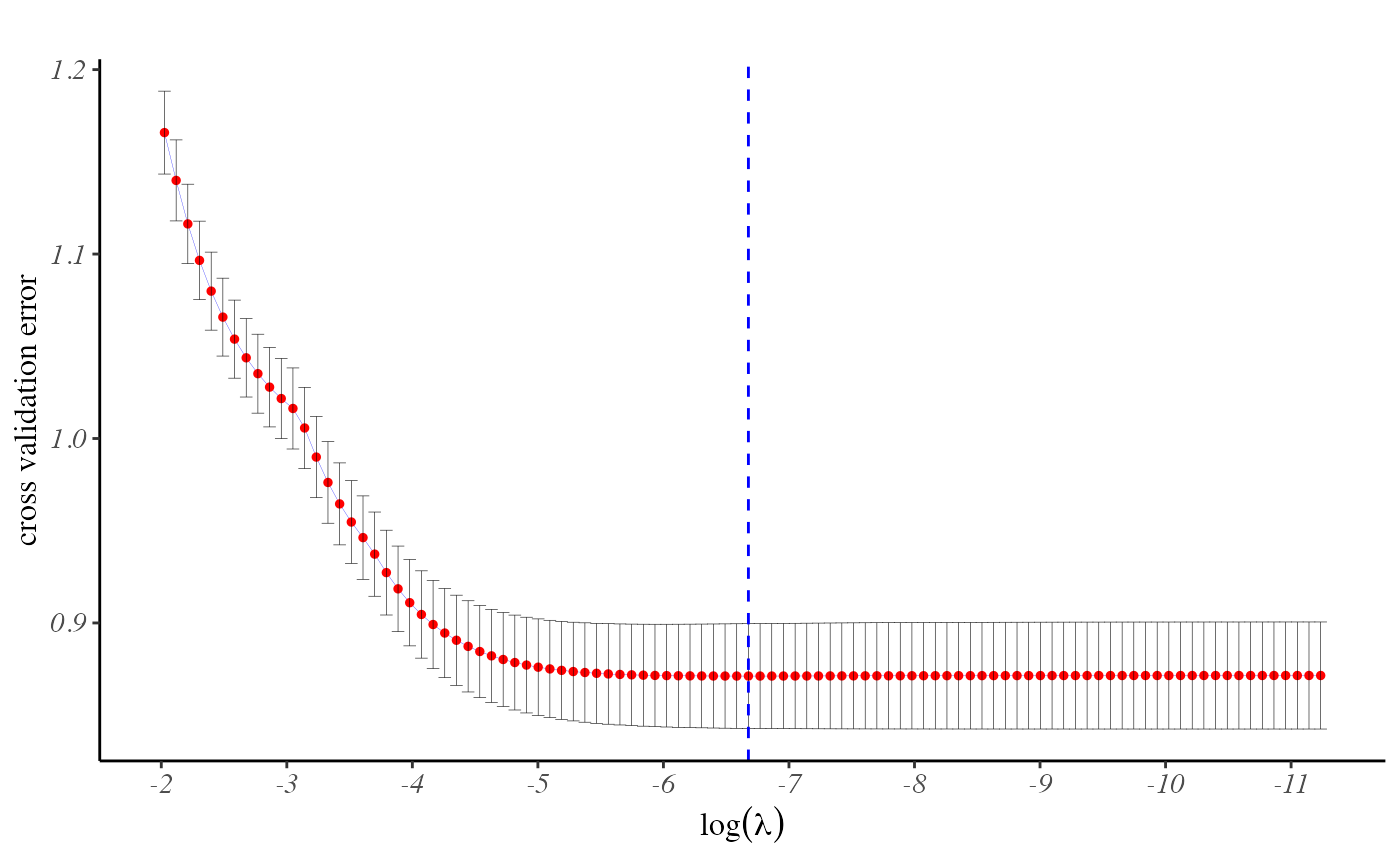
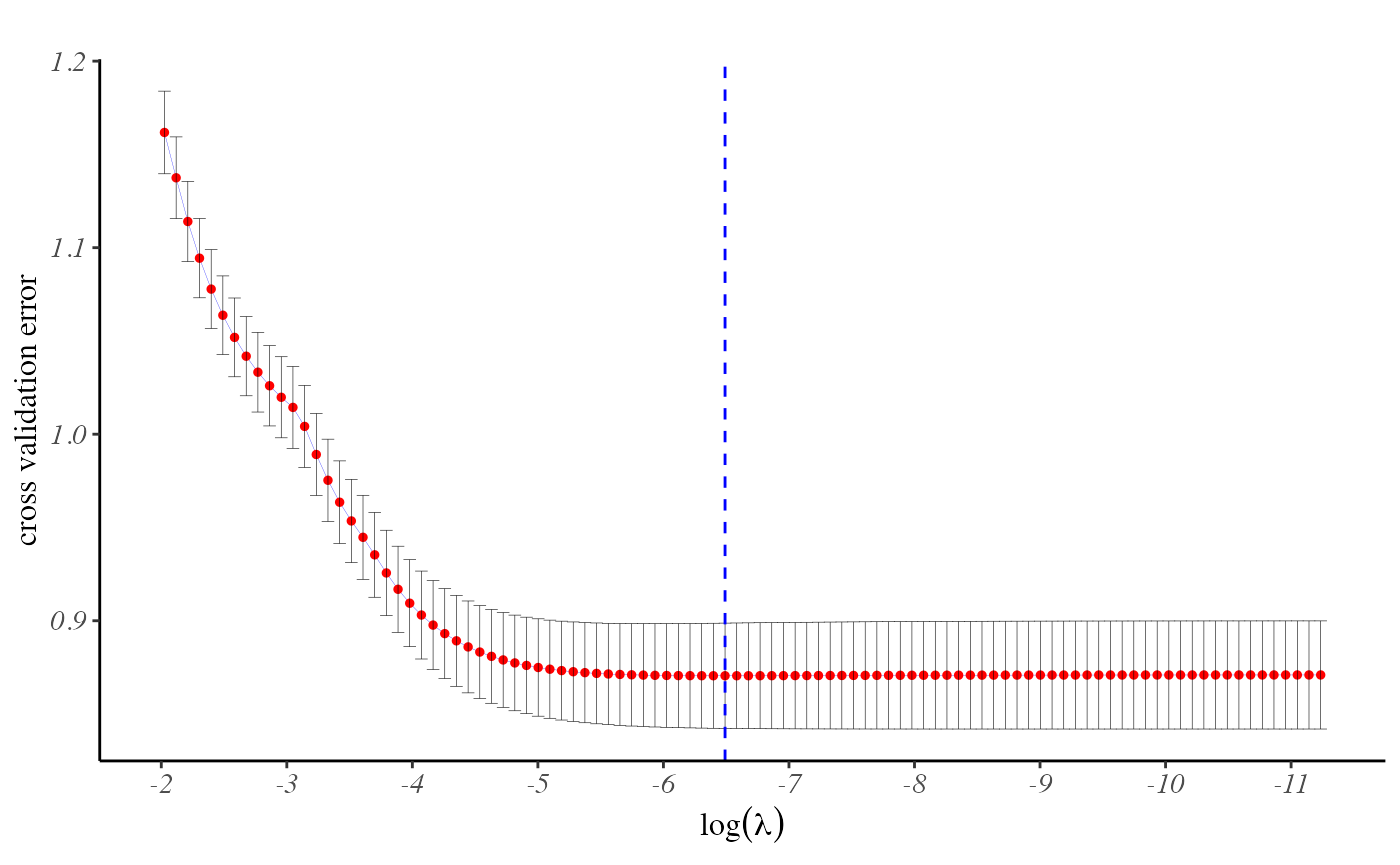
update vignettes

diff --git a/docs/articles/Models.html b/docs/articles/Models.html
@@ -104,14 +104,109 @@ corresponding <span class="math inline">\(1 \times P\)</span> vector of
 risk factors. We assume that given the linear predictor <span class="math inline">\(\eta_{ij} := \gamma_i +
 \boldsymbol{X}_{ij}\boldsymbol{\beta}\)</span>, the outcome <span class="math inline">\(Y_{ij}\)</span> follows a distribution in the
 exponential family. Incorporate with penalty terms, our problem of
-interest is estimating <span class="math inline">\(boldsymbol{\theta} =
+interest is estimating <span class="math inline">\(\boldsymbol{\theta} =
 (\boldsymbol{\gamma}^T, \boldsymbol{\beta}^T)^T\)</span> by
 minimizing:</p>
 <p><span class="math display">\[Q_{\lambda}(\boldsymbol{\theta}) =
 -\frac{1}{n}\sum\limits_{i = 1}^m \sum\limits_{j = 1}^{n_i}
 \{Y_{ij}(\gamma_i +  \boldsymbol{X}_{ij}\boldsymbol{\beta}) - b(\gamma_i
 +  \boldsymbol{X}_{ij}\boldsymbol{\beta})\} + \sum_{p = 1}^P \lambda_{p}
-|\beta_p|\]</span></p>
+|\beta_p|,\]</span> where <span class="math inline">\(\lambda_{p}\)</span> <span class="math inline">\((p = 1,2,...,P)\)</span> is the regularization
+parameter for <span class="math inline">\(\beta_p\)</span>.</p>
+<div class="section level3">
+<h3 id="two-layer-iterative-update-procedure">Two-layer iterative update procedure<a class="anchor" aria-label="anchor" href="#two-layer-iterative-update-procedure"></a>
+</h3>
+<div class="section level4">
+<h4 id="outer-layer-update-the-provider-effect-boldsymbolgamma">outer layer: update the provider effect <span class="math inline">\(\boldsymbol{\gamma}\)</span><a class="anchor" aria-label="anchor" href="#outer-layer-update-the-provider-effect-boldsymbolgamma"></a>
+</h4>
+<p>Given the previous iteration’s estimate of <span class="math inline">\(\boldsymbol{\beta}\)</span> (denoted as <span class="math inline">\(\tilde{\boldsymbol{\beta}}\)</span>), consider
+<span class="math inline">\(Q_{\lambda,
+\boldsymbol{\gamma}}(\boldsymbol{\gamma}) \propto
+Q_{\lambda}((\boldsymbol{\gamma}^T,
+\tilde{\boldsymbol{\beta}}^T)^T)\)</span> that is defined as <span class="math display">\[ Q_{\lambda,
+\boldsymbol{\gamma}}(\boldsymbol{\gamma}) = - \frac{1}{n} \sum\limits_{i
+= 1}^m \sum\limits_{j = 1}^{n_i} \{Y_{ij}(\gamma_i + \boldsymbol{X}_{ij}
+\tilde{\boldsymbol{\beta}}) - b(\gamma_i + \boldsymbol{X}_{ij}
+\tilde{\boldsymbol{\beta}})\}.\]</span></p>
+<p>Since the score function of <span class="math inline">\(Q_{\lambda,
+\boldsymbol{\gamma}}(\boldsymbol{\gamma})\)</span> is separable for
+<span class="math inline">\(\boldsymbol{\gamma}\)</span> and the fisher
+information matrix is diagonal, <span class="math inline">\(\gamma_i\)</span> can be updated separately using
+only a subset of the entire data by a one-step Newton procedure:</p>
+<p><span class="math display">\[\hat{\gamma}_i = \tilde{\gamma_i} +
+I_{\lambda}^{-1}(\tilde{\gamma}_i)
+U_{\lambda}(\tilde{\gamma}_i).\]</span></p>
+</div>
+<div class="section level4">
+<h4 id="inner-layer-update-the-covariate-coefficient-boldsymbolbeta">inner layer: update the covariate coefficient <span class="math inline">\(\boldsymbol{\beta}\)</span><a class="anchor" aria-label="anchor" href="#inner-layer-update-the-covariate-coefficient-boldsymbolbeta"></a>
+</h4>
+<p>Based on the updated value of <span class="math inline">\(\boldsymbol{\gamma}\)</span> (i.e. the <span class="math inline">\(\hat{\boldsymbol{\gamma}}\)</span> that was
+updated previously), consider <span class="math display">\[Q_{\lambda,
+\boldsymbol{\beta}}(\boldsymbol{\beta}) =
+Q_{\lambda}((\hat{\boldsymbol{\gamma}}^T, \boldsymbol{\beta}^T)^T) =
+\frac{1}{n}\mathcal{L}_{\beta}(\boldsymbol{\beta}) + \sum_{p = 1}^P
+\lambda_{p} |\beta_p|,\]</span> where <span class="math inline">\(\mathcal{L}_{\beta}(\boldsymbol{\beta}) = -
+\sum\limits_{i = 1}^m \sum\limits_{j = 1}^{n_i} \{Y_{ij}(\hat{\gamma}_i
++ \boldsymbol{X}_{ij} \boldsymbol{\beta}) - b(\hat{\gamma}_i +
+\boldsymbol{X}_{ij} \boldsymbol{\beta})\}\)</span>.</p>
+<p>The coordinate-wise updating function of <span class="math inline">\(\boldsymbol{\beta}\)</span> utilizing the
+sub-differential calculus is given by: <span class="math display">\[\hat{\beta}_p = \frac{S\{\sum\limits_{i = 1}^m
+\sum\limits_{j = 1}^{n_i} \tilde{w}_{ij} {X_{ijp}} (Z(\tilde{\eta}_{ij})
+- \hat{\gamma}_i - \boldsymbol{X}_{ij} \hat{\boldsymbol{\beta}}_{(-p)}),
+n\lambda_p\}}{\sum\limits_{i = 1}^m \sum\limits_{j = 1}^{n_i}
+\tilde{w}_{ij} {X_{ijp}}^2},\]</span> where <span class="math display">\[S(Z, \lambda) = \begin{cases} Z - \lambda,\ \
+\text{if} \ \ \ Z &gt; \lambda \\ \ \ \ 0, \ \ \ \ \ \text{if}
+\  -\lambda \leq Z \leq \lambda \\ Z + \lambda, \ \ \text{if} \ \ \ Z
+&lt; -\lambda \end{cases}\]</span>, <span class="math display">\[Z(\tilde{\eta}_{ij}) = \hat{\gamma}_i +
+\boldsymbol{X}_{ij} \tilde{\boldsymbol{\beta}}
+-  \{\mathcal{L}_{\eta}''(\tilde{\boldsymbol{\eta}})
+^{-1}
+\mathcal{L}_{\eta}'(\tilde{\boldsymbol{\eta}})\}_{ij},\]</span> and
+<span class="math display">\[\tilde{\omega}_{ij} =
+\mathcal{L}_{\eta}''(\tilde{\boldsymbol{\eta}})_{ij}.\]</span></p>
+</div>
+</div>
+<div class="section level3">
+<h3 id="extensions-covariates-with-group-information">Extensions: Covariates with Group Information<a class="anchor" aria-label="anchor" href="#extensions-covariates-with-group-information"></a>
+</h3>
+<p>Let <span class="math inline">\(\boldsymbol{X}_{ij}\)</span> be a
+<span class="math inline">\(1 \times \sum_{k = 1}^K p_k\)</span> vector
+of risk factors that are divided into <span class="math inline">\(K\)</span> non-overlapping groups (<span class="math inline">\(p_k\)</span> denotes the length of group <span class="math inline">\(k\)</span>). The coefficients of risk factors are
+denoted by <span class="math inline">\(\boldsymbol{\beta}\)</span> =
+<span class="math inline">\((\boldsymbol{\beta}_1^T\)</span>, …, <span class="math inline">\(\boldsymbol{\beta}_K^T)^T\)</span>. Given the
+observed data <span class="math inline">\(\{(Y_{ij},
+\boldsymbol{X}_{ij})\}\)</span>, our problem of interest becomes
+estimating <span class="math inline">\(\boldsymbol{\theta} =
+(\boldsymbol{\gamma}^T, \boldsymbol{\beta}^T)^T\)</span> by minimizing
+<span class="math display">\[ Q_{\lambda}(\boldsymbol{\theta}) =
+\frac{1}{n} \mathcal{L}(\boldsymbol{\theta}) + \sum_{k = 1}^K \lambda_k
+||\boldsymbol{\beta}_k||_2,\]</span> where <span class="math inline">\(\mathcal{L}(\boldsymbol{\theta}) = -
+\sum\limits_{i = 1}^m \sum\limits_{j = 1}^{n_i} \{Y_{ij}(\gamma_i +
+\sum_{k = 1}^K \boldsymbol{X}_{ijk}\boldsymbol{\beta}_k) - b(\gamma_i +
+\sum_{k = 1}^K \boldsymbol{X}_{ijk}\boldsymbol{\beta}_k)\}\)</span> is
+the loss function, and <span class="math inline">\(||\boldsymbol{\beta}_k||_2\)</span> is the <span class="math inline">\(L_2\)</span> norm of <span class="math inline">\(\boldsymbol{\beta}_k\)</span>. <span class="math inline">\(\lambda_k\)</span> is the regularization parameter
+on group <span class="math inline">\(k\)</span> with default <span class="math inline">\(\lambda_k = \lambda \sqrt{p_k}\)</span>.</p>
+<p>In the outer layer of each iteration, the center effects <span class="math inline">\(\boldsymbol{\gamma}\)</span>’s are updated the
+same way as we discussed previously.</p>
+<p>In the inner layer, we use the Majorize-Minimization (MM) algorithm
+to improve the efficiency of our algorithm for binary outcomes. Based on
+the current value of <span class="math inline">\(\hat{\boldsymbol{\gamma}}\)</span>, the
+subdifferential-based group-wise updating function of the objective
+function is given by <span class="math display">\[\boldsymbol{\beta}_k =
+\begin{cases} (||\tilde{\boldsymbol{z}}_k|| - \frac{\lambda_k}{v})
+\frac{\tilde{\boldsymbol{z}}_k}{||\tilde{\boldsymbol{z}}_k||},   &amp;
+\text{if} \ \ v\cdot||\tilde{\boldsymbol{z}}_k|| &gt; \lambda_k \\
+    0,  &amp; \text{if} \ \ v\cdot||\tilde{\boldsymbol{z}}_k|| \leq
+\lambda_k  \end{cases},\]</span> where <span class="math inline">\(\tilde{\boldsymbol{z}}_k = \frac{1}{n}
+{\boldsymbol{X}_k}^T (Z(\tilde{\boldsymbol{\eta}}) -
+\hat{\boldsymbol{\gamma}} - \boldsymbol{X}
+\tilde{\boldsymbol{\beta}}_{(-k)})\)</span> and <span class="math inline">\(v = 0.25\)</span>. <span class="math inline">\(\tilde{\boldsymbol{\beta}}_{(-k)}\)</span> is the
+most recently updated value of <span class="math inline">\(\boldsymbol{\beta}\)</span> but set <span class="math inline">\(\tilde{\boldsymbol{\beta}}_k\)</span> to <span class="math inline">\(\boldsymbol{0}\)</span>, <span class="math inline">\(Z(\tilde{\boldsymbol{\eta}}) =
+\boldsymbol{Y}\)</span> for continuous outcome and <span class="math inline">\(Z(\tilde{\boldsymbol{\eta}}) =
+\hat{\boldsymbol{\gamma}} + \boldsymbol{X} \tilde{\boldsymbol{\beta}} +
+\frac{1}{v}(\boldsymbol{Y} - \tilde{\boldsymbol{p}})\)</span> for binary
+outcome.</p>
+</div>
 </div>
 <div class="section level2">
 <h2 id="discrete-survival-logistic-model">Discrete Survival Logistic Model<a class="anchor" aria-label="anchor" href="#discrete-survival-logistic-model"></a>
@@ -160,6 +255,109 @@ as:</p>
 \boldsymbol{Z}_{ij} \boldsymbol{\beta}) -log(1 + e^{\alpha_k + \gamma_i
 + \boldsymbol{Z}_{ij} \boldsymbol{\beta}}) \} + \sum_{p = 1}^P
 \lambda_{p} |\beta_p|\]</span></p>
+<div class="section level3">
+<h3 id="three-layer-iterative-update-procedure">Three-layer iterative update procedure<a class="anchor" aria-label="anchor" href="#three-layer-iterative-update-procedure"></a>
+</h3>
+<div class="section level4">
+<h4 id="outer-layer-update-the-log-transformed-baseline-hazard-boldsymbolalpha">outer layer: update the log-transformed baseline hazard <span class="math inline">\(\boldsymbol{\alpha}\)</span><a class="anchor" aria-label="anchor" href="#outer-layer-update-the-log-transformed-baseline-hazard-boldsymbolalpha"></a>
+</h4>
+<p>Given the previous iteration’s estimate of center effect <span class="math inline">\(\tilde{\boldsymbol{\gamma}}\)</span> and
+coefficient of risk factors <span class="math inline">\(\tilde{\boldsymbol{\beta}}\)</span>, we consider
+<span class="math inline">\(Q_{\lambda,
+\boldsymbol{\alpha}}(\boldsymbol{\alpha}) = - \frac{1}{n} \sum\limits_{i
+= 1}^m \sum\limits_{j=1}^{n_i} \sum\limits_{k=1}^{k_{ij}}
+\{\delta_{ij}\left(t_{k}\right) \cdot (\alpha_k + \tilde{\gamma}_{i} +
+\boldsymbol{Z}_{ij} \tilde{\boldsymbol{\beta}}) -log(1 + e^{\alpha_k +
+\tilde{\gamma}_{i} + \boldsymbol{Z}_{ij} \tilde{\boldsymbol{\beta}}})
+\}\)</span>. The Newton method allows us to update <span class="math inline">\(\boldsymbol{\gamma}\)</span> separately by: <span class="math display">\[\hat{\alpha}_k = \tilde{\alpha}_k +
+I_{\lambda}^{-1}(\tilde{\alpha}_k)
+U_{\lambda}(\tilde{\alpha}_k),\]</span> where <span class="math inline">\(\tilde{\alpha}_k\)</span> is the current value of
+<span class="math inline">\(\alpha_k\)</span>, and <span class="math display">\[U_{\lambda}(\tilde{\alpha}_k) = - \frac{1}{n}
+\sum_{i = 1}^m \{\sum_{j = 1}^{n_i} \delta_{ij} \left(t_{k}\right) -
+\sum_{j|T_{ij} \geq t_k} \frac{e^{\tilde{\alpha}_k + \tilde{\gamma}_i
++  \boldsymbol{Z}_{ij} \tilde{\boldsymbol{\beta}}}}{1 +
+e^{\tilde{\alpha}_k + \tilde{\gamma}_i +  \boldsymbol{Z}_{ij}
+\tilde{\boldsymbol{\beta}}}}\} \\
+     I_{\lambda}(\tilde{\alpha}_k) = - \frac{1}{n} \sum_{i = 1}^m
+\sum_{j|T_{ij} \geq t_k} \frac{e^{\tilde{\alpha}_k + \tilde{\gamma}_i
++  \boldsymbol{Z}_{ij} \tilde{\boldsymbol{\beta}}}}{(1 +
+e^{\tilde{\alpha}_k + \tilde{\gamma}_i +  \boldsymbol{Z}_{ij}
+\tilde{\boldsymbol{\beta}}})^2}.\]</span></p>
+</div>
+<div class="section level4">
+<h4 id="middle-layer-update-the-provider-effect-boldsymbolgamma">middle layer: update the provider effect <span class="math inline">\(\boldsymbol{\gamma}\)</span><a class="anchor" aria-label="anchor" href="#middle-layer-update-the-provider-effect-boldsymbolgamma"></a>
+</h4>
+<p>Given the <span class="math inline">\(\hat{\boldsymbol{\alpha}}\)</span> updated above
+and the most recently updated <span class="math inline">\(\tilde{\boldsymbol{\beta}}\)</span>, we consider
+<span class="math inline">\(Q_{\lambda,
+\boldsymbol{\gamma}}(\boldsymbol{\gamma}) = - \frac{1}{n} \sum\limits_{i
+= 1}^m \sum\limits_{j=1}^{n_i} \sum\limits_{k=1}^{k_{ij}}
+\{\delta_{ij}\left(t_{k}\right) \cdot (\hat{\alpha}_k + \gamma_{i} +
+\boldsymbol{Z}_{ij} \tilde{\boldsymbol{\beta}}) -log(1 +
+e^{\hat{\alpha}_k + \gamma_{i} + \boldsymbol{Z}_{ij}
+\tilde{\boldsymbol{\beta}}}) \}\)</span>. Use a similar one-step Newton
+method we should have <span class="math display">\[\hat{\gamma}_i =
+\tilde{\gamma}_i + I_{\lambda}^{-1}(\tilde{\gamma}_i)
+U_{\lambda}(\tilde{\gamma}_i),\]</span> where <span class="math inline">\(\gamma_{i}\)</span> represent the most recently
+updated value of effect of center <span class="math inline">\(i\)</span>, and <span class="math display">\[U_{\lambda}(\tilde{\gamma}_i) = - \frac{1}{n}
+\sum_{j = 1}^{n_i} \sum_{k = 1}^{k_{ij}} \{\delta_{ij}
+\left(t_{k}\right) - \frac{e^{\hat{\alpha}_k + \tilde{\gamma}_i
++  \boldsymbol{Z}_{ij} \tilde{\boldsymbol{\beta}}}}{1 +
+e^{\hat{\alpha}_k + \tilde{\gamma}_i +  \boldsymbol{Z}_{ij}
+\tilde{\boldsymbol{\beta}}}}\} \\
+     I_{\lambda}(\tilde{\gamma}_i) = - \frac{1}{n}  \sum_{j = 1}^{n_i}
+\sum_{k = 1}^{k_{ij}} \frac{e^{\hat{\alpha}_k + \tilde{\gamma}_i
++  \boldsymbol{Z}_{ij} \tilde{\boldsymbol{\beta}}}}{(1 +
+e^{\hat{\alpha}_k + \tilde{\gamma}_i +  \boldsymbol{Z}_{ij}
+\tilde{\boldsymbol{\beta}}})^2}.\]</span></p>
+<p>It should be noted that the effect of the first provider is set to
+zero (as the reference group) to prevent issues of
+multicollinearity.</p>
+</div>
+<div class="section level4">
+<h4 id="inner-layer-update-the-covariate-coefficient-boldsymbolbeta-1">inner layer: update the covariate coefficient <span class="math inline">\(\boldsymbol{\beta}\)</span><a class="anchor" aria-label="anchor" href="#inner-layer-update-the-covariate-coefficient-boldsymbolbeta-1"></a>
+</h4>
+<p>Based on the <span class="math inline">\(\hat{\boldsymbol{\alpha}}\)</span> and <span class="math inline">\(\hat{\boldsymbol{\gamma}}\)</span> updated from
+the previous two steps, define <span class="math inline">\(\mathcal{L}_{\beta}(\boldsymbol{\beta}) = -
+\frac{1}{n} \sum\limits_{i = 1}^m \sum\limits_{j=1}^{n_i}
+\sum\limits_{k=1}^{k_{ij}} \{\delta_{ij}\left(t_{k}\right) \cdot
+(\hat{\alpha}_k + \hat{\gamma}_{i} + \boldsymbol{Z}_{ij}
+\boldsymbol{\beta}) -log(1 + e^{\hat{\alpha}_k + \hat{\gamma}_{i} +
+\boldsymbol{Z}_{ij} \boldsymbol{\beta}}) \}\)</span> and consider <span class="math display">\[Q_{\lambda,
+\boldsymbol{\beta}}(\boldsymbol{\beta}) =
+\frac{1}{n}  \mathcal{L}_{\beta}(\boldsymbol{\beta}) + \sum_{k = 1}^p
+\lambda_{k} |\beta_k|.\]</span></p>
+<p>Denote <span class="math display">\[Z(\tilde{\eta}_{ij}) =
+\tilde{\eta}_{ij}
+-  \{\mathcal{L}_{\eta}''(\tilde{\boldsymbol{\eta}})^{-1}
+\mathcal{L}_{\eta}'(\tilde{\boldsymbol{\eta}})\}_{ij} =
+\tilde{\eta}_{ij} + \frac{\sum\limits_{k = 1}^{k_{ij}}[\delta_{ij}(t_k)
+- \frac{e^{\hat{\alpha}_k + \tilde{\eta}_{ij}}}{1 + e^{\hat{\alpha}_k +
+\tilde{\eta}_{ij}}}]}{\sum\limits_{k = 1}^{k_{ij}}
+\frac{e^{\hat{\alpha}_k + \tilde{\eta}_{ij}}}{(1 + e^{\hat{\alpha}_k +
+\tilde{\eta}_{ij}})^2}},\]</span> and <span class="math display">\[\tilde{\omega}_{ij} = \sum\limits_{k =
+1}^{k_{ij}} \frac{e^{\hat{\alpha}_k + \tilde{\eta}_{ij}}}{(1 +
+e^{\hat{\alpha}_k + \tilde{\eta}_{ij}})^2},\]</span> then the
+coordinate-wise updating function will be given by: <span class="math display">\[\beta_p = \frac{S\{\sum\limits_{i = 1}^m
+\sum\limits_{j = 1}^{n_i} \tilde{w}_{ij} {Z_{ijp}} (Z(\tilde{\eta}_{ij})
+- \hat{\gamma}_i - \boldsymbol{Z}_{ij}
+\tilde{\boldsymbol{\beta}}_{(-p)}), n\lambda_k\}}{\sum\limits_{i = 1}^m
+\sum\limits_{j = 1}^{n_i} \tilde{w}_{ij} {Z_{ijp}}^2},\]</span> where
+<span class="math inline">\(S\)</span> is the same soft-thresholding
+operator defined above.</p>
+<p>MM algorithm can also be applied for solving this problem since <span class="math inline">\(\sum\limits_{k = 1}^{k_{ij}}
+\frac{e^{\hat{\alpha}_{k} + \eta_{ij}}}{(1 + e^{\hat{\alpha}_{k} +
+\eta_{ij}})^2} &lt; \frac{1}{4} k_{ij}\)</span>. The majorizing
+surrogate function is constructed based on <span class="math display">\[\boldsymbol{W} = \begin{pmatrix}
+\frac{1}{4}k_{11} &amp;  &amp;  \\  &amp; \ddots &amp;  \\ &amp;  &amp;
+\frac{1}{4}k_{m,n_m} \end{pmatrix}_{n \times n},\]</span> and the
+corresponding updating function is given by <span class="math display">\[\beta_p = \frac{S\{\sum\limits_{i = 1}^m
+\sum\limits_{j = 1}^{n_i} k_{ij} {Z_{ijp}} (Z(\tilde{\eta}_{ij}) -
+\hat{\gamma}_i - \boldsymbol{Z}_{ij} \tilde{\boldsymbol{\beta}}_{(-p)}),
+4n\lambda_k\}}{\sum\limits_{i = 1}^m \sum\limits_{j = 1}^{n_i} k_{ij}
+{Z_{ijp}}^2}.\]</span></p>
+</div>
+</div>
 </div>
   </div>
 

diff --git a/docs/reference/pp.DiscSurv.html b/docs/reference/pp.DiscSurv.html
@@ -257,25 +257,25 @@ and the number of columns is equal to nlambda.</p></dd>
 <span class="r-in"><span><span class="va">fit</span> <span class="op">&lt;-</span> <span class="fu">pp.DiscSurv</span><span class="op">(</span><span class="va">data</span>, <span class="va">Event.char</span>, <span class="va">prov.char</span>, <span class="va">Z.char</span>, <span class="va">Time.char</span>, lambda <span class="op">=</span> <span class="fl">0.01</span><span class="op">)</span></span></span>
 <span class="r-in"><span><span class="va">fit</span><span class="op">$</span><span class="va">beta</span></span></span>
 <span class="r-out co"><span class="r-pr">#&gt;</span>           0.01</span>
-<span class="r-out co"><span class="r-pr">#&gt;</span> Z1 -2.08431013</span>
-<span class="r-out co"><span class="r-pr">#&gt;</span> Z2 -0.06473842</span>
-<span class="r-out co"><span class="r-pr">#&gt;</span> Z3 -0.31675475</span>
-<span class="r-out co"><span class="r-pr">#&gt;</span> Z4  0.47710324</span>
-<span class="r-out co"><span class="r-pr">#&gt;</span> Z5 -1.14895844</span>
+<span class="r-out co"><span class="r-pr">#&gt;</span> Z1 -2.08438847</span>
+<span class="r-out co"><span class="r-pr">#&gt;</span> Z2 -0.06466753</span>
+<span class="r-out co"><span class="r-pr">#&gt;</span> Z3 -0.31665867</span>
+<span class="r-out co"><span class="r-pr">#&gt;</span> Z4  0.47716175</span>
+<span class="r-out co"><span class="r-pr">#&gt;</span> Z5 -1.14897816</span>
 <span class="r-in"><span><span class="va">fit</span><span class="op">$</span><span class="va">alpha</span></span></span>
 <span class="r-out co"><span class="r-pr">#&gt;</span>          0.01</span>
-<span class="r-out co"><span class="r-pr">#&gt;</span> T_1 -3.685911</span>
-<span class="r-out co"><span class="r-pr">#&gt;</span> T_2 -2.726462</span>
-<span class="r-out co"><span class="r-pr">#&gt;</span> T_3 -2.454445</span>
-<span class="r-out co"><span class="r-pr">#&gt;</span> T_4 -1.813700</span>
-<span class="r-out co"><span class="r-pr">#&gt;</span> T_5 -2.209127</span>
+<span class="r-out co"><span class="r-pr">#&gt;</span> T_1 -3.685872</span>
+<span class="r-out co"><span class="r-pr">#&gt;</span> T_2 -2.726429</span>
+<span class="r-out co"><span class="r-pr">#&gt;</span> T_3 -2.454406</span>
+<span class="r-out co"><span class="r-pr">#&gt;</span> T_4 -1.813654</span>
+<span class="r-out co"><span class="r-pr">#&gt;</span> T_5 -2.209080</span>
 <span class="r-in"><span><span class="va">fit</span><span class="op">$</span><span class="va">gamma</span> <span class="co">#effect of the first provider is set to be zero</span></span></span>
 <span class="r-out co"><span class="r-pr">#&gt;</span>          0.01</span>
 <span class="r-out co"><span class="r-pr">#&gt;</span> 1  0.00000000</span>
-<span class="r-out co"><span class="r-pr">#&gt;</span> 2 -1.39944053</span>
-<span class="r-out co"><span class="r-pr">#&gt;</span> 3 -0.08268807</span>
-<span class="r-out co"><span class="r-pr">#&gt;</span> 4 -0.17074837</span>
-<span class="r-out co"><span class="r-pr">#&gt;</span> 5 -0.24781842</span>
+<span class="r-out co"><span class="r-pr">#&gt;</span> 2 -1.39959773</span>
+<span class="r-out co"><span class="r-pr">#&gt;</span> 3 -0.08272695</span>
+<span class="r-out co"><span class="r-pr">#&gt;</span> 4 -0.17063809</span>
+<span class="r-out co"><span class="r-pr">#&gt;</span> 5 -0.24793418</span>
 <span class="r-in"><span></span></span>
 </code></pre></div>
     </div>

diff --git a/docs/articles/ppLasso.html b/docs/articles/ppLasso.html
@@ -253,25 +253,25 @@ reference group).</p>
 <div class="sourceCode" id="cb12"><pre class="downlit sourceCode r">
 <code class="sourceCode R"><span><span class="va">fit</span><span class="op">$</span><span class="va">beta</span></span>
 <span><span class="co">#&gt;           0.01</span></span>
-<span><span class="co">#&gt; Z1 -2.08430850</span></span>
-<span><span class="co">#&gt; Z2 -0.06479163</span></span>
-<span><span class="co">#&gt; Z3 -0.31673057</span></span>
-<span><span class="co">#&gt; Z4  0.47720923</span></span>
-<span><span class="co">#&gt; Z5 -1.14878528</span></span>
+<span><span class="co">#&gt; Z1 -2.08427929</span></span>
+<span><span class="co">#&gt; Z2 -0.06466547</span></span>
+<span><span class="co">#&gt; Z3 -0.31667620</span></span>
+<span><span class="co">#&gt; Z4  0.47704770</span></span>
+<span><span class="co">#&gt; Z5 -1.14886576</span></span>
 <span><span class="va">fit</span><span class="op">$</span><span class="va">alpha</span></span>
 <span><span class="co">#&gt;          0.01</span></span>
-<span><span class="co">#&gt; T_1 -3.685748</span></span>
-<span><span class="co">#&gt; T_2 -2.726358</span></span>
-<span><span class="co">#&gt; T_3 -2.454348</span></span>
-<span><span class="co">#&gt; T_4 -1.813607</span></span>
-<span><span class="co">#&gt; T_5 -2.209045</span></span>
+<span><span class="co">#&gt; T_1 -3.685810</span></span>
+<span><span class="co">#&gt; T_2 -2.726395</span></span>
+<span><span class="co">#&gt; T_3 -2.454389</span></span>
+<span><span class="co">#&gt; T_4 -1.813653</span></span>
+<span><span class="co">#&gt; T_5 -2.209084</span></span>
 <span><span class="va">fit</span><span class="op">$</span><span class="va">gamma</span></span>
 <span><span class="co">#&gt;          0.01</span></span>
 <span><span class="co">#&gt; 1  0.00000000</span></span>
-<span><span class="co">#&gt; 2 -1.39976165</span></span>
-<span><span class="co">#&gt; 3 -0.08276652</span></span>
-<span><span class="co">#&gt; 4 -0.17050722</span></span>
-<span><span class="co">#&gt; 5 -0.24802328</span></span></code></pre></div>
+<span><span class="co">#&gt; 2 -1.39954077</span></span>
+<span><span class="co">#&gt; 3 -0.08271917</span></span>
+<span><span class="co">#&gt; 4 -0.17071216</span></span>
+<span><span class="co">#&gt; 5 -0.24789071</span></span></code></pre></div>
 </div>
 </div>
   </div>

diff --git a/docs/reference/cv.grp.lasso.html b/docs/reference/cv.grp.lasso.html
@@ -170,7 +170,7 @@
 <span class="r-in"><span><span class="va">fit</span> <span class="op">&lt;-</span> <span class="fu">cv.grp.lasso</span><span class="op">(</span><span class="va">data</span>, <span class="va">Y.char</span>, <span class="va">Z.char</span>, <span class="va">prov.char</span>, group <span class="op">=</span> <span class="va">group</span>, nfolds <span class="op">=</span> <span class="fl">10</span><span class="op">)</span></span></span>
 <span class="r-in"><span><span class="co"># the best lambda using cross validation</span></span></span>
 <span class="r-in"><span><span class="va">fit</span><span class="op">$</span><span class="va">lambda.min</span></span></span>
-<span class="r-out co"><span class="r-pr">#&gt;</span> [1] 0.001566486</span>
+<span class="r-out co"><span class="r-pr">#&gt;</span> [1] 0.0008964011</span>
 <span class="r-in"><span></span></span>
 </code></pre></div>
     </div>
